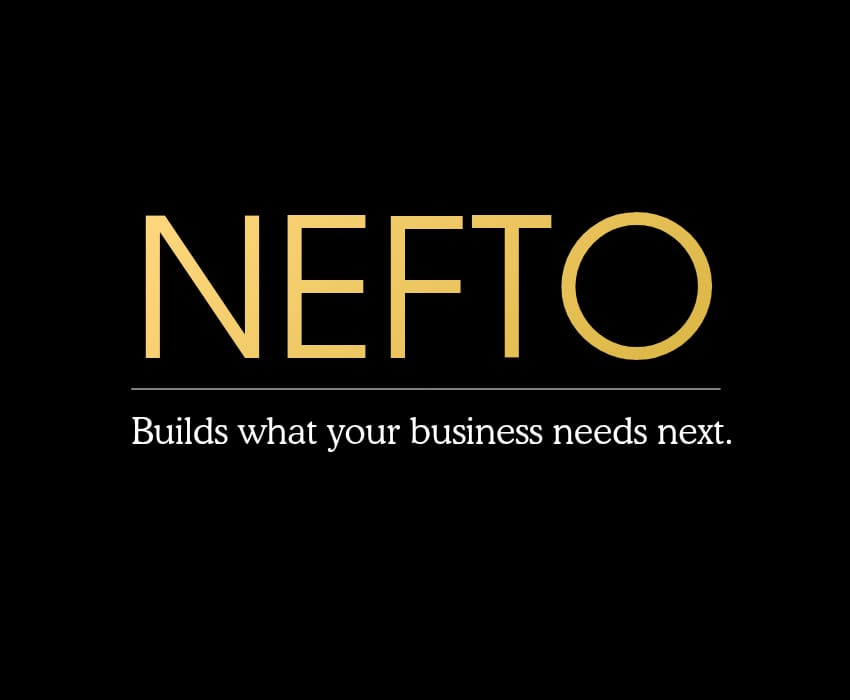
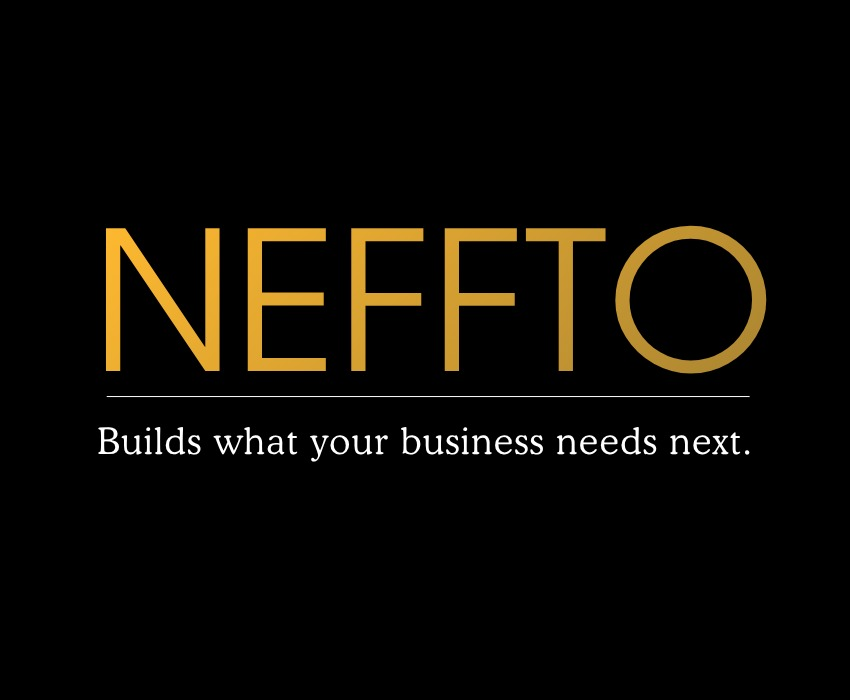
image updated

Changed region(s): [[0.1224, 0.3, 0.9176, 0.57], [0.1224, 0.6, 0.8871, 0.66]]

diff --git a/src/Components/DesignIntro.jsx b/src/Components/DesignIntro.jsx
@@ -1,6 +1,6 @@
 import React from "react";
 import { Link } from 'react-router-dom';
-import NEFTO from '../assets/images/NEFTO.png'
+import NEFTO from '../assets/images/NEFTO.jpeg'
 
 const DesignIntro = () => {
   return (